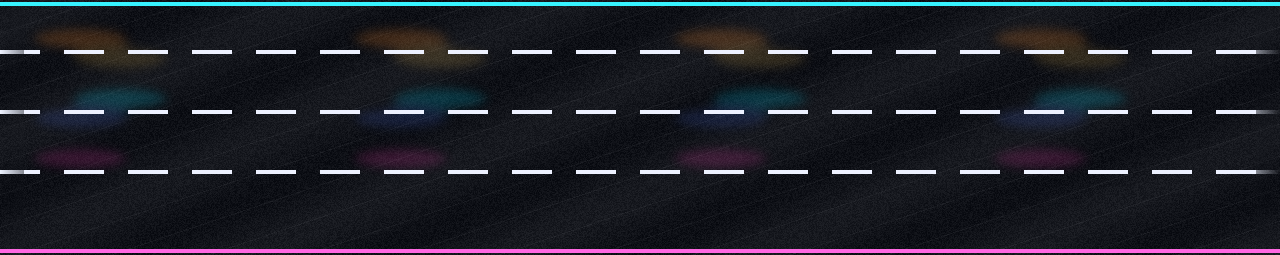
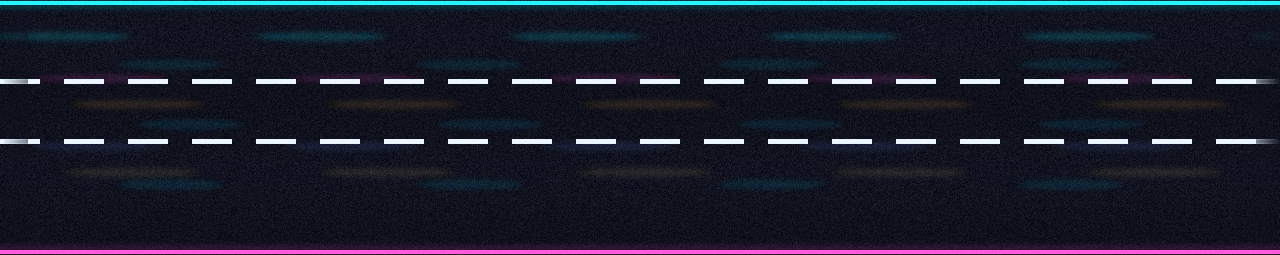
Rebuild wet street with correct lane dividers
Paint a richer scrolling asphalt strip with dashes between lanes (not
through them), matching neon curbs/reflections, and replace purple
full-width lane bands with a soft active-lane underglow.

diff --git a/src/scenes/GameScene.js b/src/scenes/GameScene.js
@@ -4,6 +4,8 @@ import {
   COLORS,
   GAME_HEIGHT,
   GAME_WIDTH,
+  LANE_Y,
+  PLAYER_X,
   ROAD_TOP,
   SCORE,
   SPEED,
@@ -118,7 +120,7 @@ export class GameScene extends Phaser.Scene {
     this.roadReflect = this.add.tileSprite(0, ROAD_TOP, GAME_WIDTH, roadH, ASSET_KEYS.ROAD_REFLECT)
       .setOrigin(0, 0)
       .setDepth(3)
-      .setAlpha(0.28)
+      .setAlpha(0.22)
       .setBlendMode(Phaser.BlendModes.ADD);
 
     // Alias kept for any legacy references.
@@ -127,7 +129,7 @@ export class GameScene extends Phaser.Scene {
     this.skyline = this.citySf;
     this.midground = this.citySf;
 
-    // Soft lane readability without covering the painted wet road.
+    // Soft active-lane underglow only — no full-width purple bands.
     this.laneGuides = this.add.graphics().setDepth(9);
     this.drawLaneGuides();
 
@@ -152,15 +154,14 @@ export class GameScene extends Phaser.Scene {
 
   drawLaneGuides() {
     this.laneGuides.clear();
-    // Soft filled bands so current lanes are obvious on phones.
-    const bands = [
-      { y: 488, color: 0x00f0ff },
-      { y: 548, color: 0x7a3cff },
-      { y: 608, color: 0xff2bd6 },
+    // Quiet baseline: thin cyan ticks at divider Ys (between lanes).
+    const dividers = [
+      (LANE_Y[0] + LANE_Y[1]) / 2,
+      (LANE_Y[1] + LANE_Y[2]) / 2,
     ];
-    bands.forEach((b, i) => {
-      this.laneGuides.fillStyle(b.color, i === 1 ? 0.08 : 0.05);
-      this.laneGuides.fillRect(0, b.y, GAME_WIDTH, 52);
+    this.laneGuides.lineStyle(1, COLORS.ELECTRIC_CYAN, 0.12);
+    dividers.forEach((y) => {
+      this.laneGuides.lineBetween(0, y, GAME_WIDTH, y);
     });
   }
 
@@ -293,28 +294,32 @@ export class GameScene extends Phaser.Scene {
   }
 
   highlightPlayerLane() {
-    // Recolor lane bands so the active lane is brightest.
+    // Soft underglow under the active lane only — keeps wet asphalt readable.
     this.laneGuides.clear();
-    const bands = [488, 548, 608];
-    const colors = [0x00f0ff, 0x7a3cff, 0xff2bd6];
-    bands.forEach((y, i) => {
-      const active = i === this.player.laneIndex;
-      this.laneGuides.fillStyle(colors[i], active ? 0.16 : 0.05);
-      this.laneGuides.fillRect(0, y, GAME_WIDTH, 52);
-      if (active) {
-        this.laneGuides.lineStyle(2, colors[i], 0.55);
-        this.laneGuides.strokeRect(8, y + 4, GAME_WIDTH - 16, 44);
-      }
+    const dividers = [
+      (LANE_Y[0] + LANE_Y[1]) / 2,
+      (LANE_Y[1] + LANE_Y[2]) / 2,
+    ];
+    this.laneGuides.lineStyle(1, COLORS.ELECTRIC_CYAN, 0.1);
+    dividers.forEach((y) => {
+      this.laneGuides.lineBetween(0, y, GAME_WIDTH, y);
     });
+
+    const y = LANE_Y[this.player?.laneIndex ?? 1];
+    this.laneGuides.fillStyle(COLORS.ELECTRIC_CYAN, 0.1);
+    this.laneGuides.fillEllipse(PLAYER_X + 40, y + 10, 220, 36);
+    this.laneGuides.lineStyle(2, COLORS.ELECTRIC_CYAN, 0.35);
+    this.laneGuides.strokeEllipse(PLAYER_X + 40, y + 10, 220, 36);
   }
 
   drawSpeedLines() {
     this.speedLines.clear();
-    this.speedLines.lineStyle(2, COLORS.ELECTRIC_CYAN, 0.2);
-    for (let i = 0; i < 6; i += 1) {
-      const y = 470 + i * 30 + ((this.time.now / 14) % 30);
-      const x = (this.time.now * 0.35 + i * 100) % GAME_WIDTH;
-      this.speedLines.lineBetween(x, y, x + 28, y);
+    // Sparse motion ticks near curbs — don't clutter lane paint.
+    this.speedLines.lineStyle(2, COLORS.ELECTRIC_CYAN, 0.14);
+    for (let i = 0; i < 3; i += 1) {
+      const y = ROAD_TOP + 12 + i * (GAME_HEIGHT - ROAD_TOP - 28) / 2;
+      const x = (this.time.now * 0.4 + i * 180) % GAME_WIDTH;
+      this.speedLines.lineBetween(x, y, x + 22, y);
     }
   }
 

diff --git a/src/config.js b/src/config.js
@@ -109,6 +109,7 @@ export const PAINTED_ASSET_KEYS = [
   ASSET_KEYS.CITY_SF,
   ASSET_KEYS.CITY_VEGAS,
   ASSET_KEYS.ROAD_SCROLL,
+  ASSET_KEYS.ROAD_REFLECT,
   ASSET_KEYS.ZOOX,
   ASSET_KEYS.ZOOX_1,
   ASSET_KEYS.ZCOIN,

diff --git a/scripts/art/make_road_scroll.py b/scripts/art/make_road_scroll.py
@@ -1,0 +1,143 @@
+#!/usr/bin/env python3
+"""
+Wet neon scrolling road band for ZOOX FUTURE SF.
+
+Lane geometry matches gameplay:
+  ROAD_TOP = 465, LANE_Y = [515, 575, 635]
+  → local lane centers = [50, 110, 170]
+  → dashed dividers BETWEEN lanes at local Y ≈ 80, 140
+"""
+
+from __future__ import annotations
+
+import math
+import random
+from pathlib import Path
+
+import numpy as np
+from PIL import Image, ImageDraw, ImageFilter
+
+ROOT = Path(__file__).resolve().parents[2]
+OUT = ROOT / "public" / "assets" / "roads"
+W, ROAD_H = 1280, 255  # GAME_HEIGHT - ROAD_TOP
+
+
+def clamp(v, a=0, b=255):
+    return max(a, min(b, int(v)))
+
+
+def make_road_scroll() -> Image.Image:
+    rng = random.Random(11)
+    img = Image.new("RGBA", (W, ROAD_H), (14, 16, 24, 255))
+    px = img.load()
+
+    # Dark wet asphalt with subtle grain + horizontal sheen bands
+    for y in range(ROAD_H):
+        band = 1.0 + 0.08 * math.sin(y / 22.0)
+        for x in range(W):
+            n = rng.randint(-10, 10)
+            base = 16 + n
+            # faintly cooler asphalt
+            r = clamp(base * band)
+            g = clamp((base + 2) * band)
+            b = clamp((base + 10) * band + 4)
+            px[x, y] = (r, g, b, 255)
+
+    # Long neon reflection streaks (tile-safe horizontal spacing)
+    streaks = Image.new("RGBA", (W, ROAD_H), (0, 0, 0, 0))
+    sd = ImageDraw.Draw(streaks)
+    palette = [
+        (0, 230, 255, 70),
+        (255, 60, 200, 55),
+        (255, 170, 60, 50),
+        (90, 140, 255, 45),
+        (255, 220, 100, 40),
+    ]
+    for i, col in enumerate(palette):
+        y = 36 + (i % 5) * 34 + (i % 2) * 8
+        for k in range(5):
+            cx = 64 + k * 256 + (i * 37) % 80
+            sd.ellipse([cx - 70, y - 5, cx + 70, y + 5], fill=col)
+            # thinner bright core
+            core = (min(255, col[0] + 40), min(255, col[1] + 40), min(255, col[2] + 40), col[3] // 2)
+            sd.ellipse([cx - 40, y - 2, cx + 40, y + 2], fill=core)
+    streaks = streaks.filter(ImageFilter.GaussianBlur(3.5))
+    img = Image.alpha_composite(img, streaks)
+
+    # Soft puddle mirrors under each lane (not on divider paint)
+    puddles = Image.new("RGBA", (W, ROAD_H), (0, 0, 0, 0))
+    pd = ImageDraw.Draw(puddles)
+    for ly in (50, 110, 170):  # lane centers
+        for k in range(4):
+            cx = 160 + k * 300 + (ly % 40)
+            pd.ellipse([cx - 55, ly + 8, cx + 55, ly + 20], fill=(0, 180, 220, 28))
+    puddles = puddles.filter(ImageFilter.GaussianBlur(2.5))
+    img = Image.alpha_composite(img, puddles)
+
+    draw = ImageDraw.Draw(img)
+
+    # Neon curbs
+    draw.rectangle([0, 1, W - 1, 4], fill=(0, 245, 255, 210))
+    draw.rectangle([0, ROAD_H - 5, W - 1, ROAD_H - 2], fill=(255, 45, 210, 190))
+    # Soft curb glow
+    curb_glow = Image.new("RGBA", (W, ROAD_H), (0, 0, 0, 0))
+    cg = ImageDraw.Draw(curb_glow)
+    cg.rectangle([0, 0, W - 1, 10], fill=(0, 230, 255, 40))
+    cg.rectangle([0, ROAD_H - 12, W - 1, ROAD_H - 1], fill=(255, 50, 200, 35))
+    curb_glow = curb_glow.filter(ImageFilter.GaussianBlur(3))
+    img = Image.alpha_composite(img, curb_glow)
+    draw = ImageDraw.Draw(img)
+
+    # Dashed dividers BETWEEN lanes (local Y 80 & 140)
+    # Screen: ROAD_TOP+80=545, ROAD_TOP+140=605 — midway between LANE_Y pairs.
+    dash, gap = 40, 24
+    period = dash + gap  # 64 → 1280/64 = 20 exact tiles
+    for ly in (80, 140):
+        x = 0
+        while x < W:
+            # soft outer
+            draw.rectangle([x, ly - 1, min(x + dash - 1, W - 1), ly + 3], fill=(180, 220, 255, 90))
+            # bright dash
+            draw.rectangle([x, ly, min(x + dash - 1, W - 1), ly + 2], fill=(235, 245, 255, 230))
+            x += period
+
+    # Edge blend for seamless horizontal loop
+    arr = img.load()
+    blend = 28
+    for x in range(blend):
+        t = x / blend
+        xr = W - blend + x
+        for y in range(ROAD_H):
+            a = arr[x, y]
+            b = arr[xr, y]
+            arr[x, y] = tuple(int(a[i] * (1 - t * 0.55) + b[i] * (t * 0.55)) for i in range(4))
+            arr[xr, y] = tuple(int(b[i] * (1 - (1 - t) * 0.55) + a[i] * ((1 - t) * 0.55)) for i in range(4))
+
+    return img
+
+
+def make_road_reflect() -> Image.Image:
+    """Matching 1280×255 ADD sheen plate (replaces stretched old reflections)."""
+    img = Image.new("RGBA", (W, ROAD_H), (0, 0, 0, 0))
+    d = ImageDraw.Draw(img)
+    for i in range(8):
+        y = 28 + i * 26
+        col = (0, 230, 255, 35) if i % 2 == 0 else (255, 80, 200, 28)
+        for k in range(6):
+            cx = 40 + k * 210 + (i * 17) % 60
+            d.ellipse([cx - 60, y - 4, cx + 60, y + 4], fill=col)
+    return img.filter(ImageFilter.GaussianBlur(4))
+
+
+def main():
+    OUT.mkdir(parents=True, exist_ok=True)
+    road = make_road_scroll()
+    road.save(OUT / "road_scroll.png")
+    print(f"wrote roads/road_scroll.png {road.size[0]}x{road.size[1]}")
+    ref = make_road_reflect()
+    ref.save(OUT / "reflections.png")
+    print(f"wrote roads/reflections.png {ref.size[0]}x{ref.size[1]}")
+
+
+if __name__ == "__main__":
+    main()

diff --git a/scripts/art/make_city_worlds.py b/scripts/art/make_city_worlds.py
@@ -28,75 +28,13 @@ def clamp(v, a=0, b=255):
 
 
 def make_road_scroll() -> Image.Image:
-    """Seamless wet neon road band matching gameplay lanes."""
-    img = Image.new("RGBA", (W, ROAD_H), (18, 20, 28, 255))
-    px = img.load()
-    rng = random.Random(7)
+    """Delegate to the dedicated wet-road painter (correct divider geometry)."""
+    import sys
 
-    # Asphalt grain + wet darker bands
-    for y in range(ROAD_H):
-        for x in range(W):
-            n = rng.randint(-8, 8)
-            shade = 18 + n + int(6 * math.sin(x / 40 + y / 18))
-            # subtle vertical neon reflections
-            if (x + y * 3) % 97 < 3:
-                shade += 10
-            px[x, y] = (clamp(shade), clamp(shade + 2), clamp(shade + 8), 255)
+    sys.path.insert(0, str(Path(__file__).resolve().parent))
+    from make_road_scroll import make_road_scroll as _paint
 
-    draw = ImageDraw.Draw(img)
-
-    # Neon curb lines
-    draw.rectangle([0, 2, W, 5], fill=(0, 240, 255, 200))
-    draw.rectangle([0, ROAD_H - 6, W, ROAD_H - 3], fill=(255, 43, 214, 180))
-
-    # Soft reflection blobs (tile-safe spacing)
-    glow = Image.new("RGBA", (W, ROAD_H), (0, 0, 0, 0))
-    gd = ImageDraw.Draw(glow)
-    for i, (col, y) in enumerate(
-        [
-            ((255, 140, 40, 55), 38),
-            ((0, 220, 255, 50), 98),
-            ((255, 60, 180, 45), 158),
-            ((255, 200, 80, 40), 58),
-            ((80, 120, 255, 40), 118),
-        ]
-    ):
-        for k in range(4):
-            cx = 80 + k * 320 + (i % 2) * 40
-            gd.ellipse([cx - 50, y - 12, cx + 50, y + 12], fill=col)
-    glow = glow.filter(ImageFilter.GaussianBlur(6))
-    img = Image.alpha_composite(img, glow)
-    draw = ImageDraw.Draw(img)
-
-    # Dashed lane lines — period divides width evenly for seamless tiling
-    dash = 36
-    gap = 28
-    period = dash + gap
-    assert W % period == 0 or True
-    # Adjust period to divide 1280: 40+24=64, 1280/64=20
-    dash, gap = 40, 24
-    period = dash + gap
-    for ly in (50, 110, 170):
-        y = ly
-        x = 0
-        while x < W:
-            draw.rectangle([x, y, min(x + dash - 1, W - 1), y + 3], fill=(235, 240, 255, 230))
-            x += period
-
-    # Edge blend for seamless loop (left/right average)
-    arr = img.load()
-    blend = 24
-    for x in range(blend):
-        t = x / blend
-        xr = W - blend + x
-        for y in range(ROAD_H):
-            a = arr[x, y]
-            b = arr[xr, y]
-            # pull edges toward each other
-            arr[x, y] = tuple(int(a[i] * (1 - t * 0.5) + b[i] * (t * 0.5)) for i in range(4))
-            arr[xr, y] = tuple(int(b[i] * (1 - (1 - t) * 0.5) + a[i] * ((1 - t) * 0.5)) for i in range(4))
-
-    return img
+    return _paint()
 
 
 def prep_sf_city() -> Image.Image:
